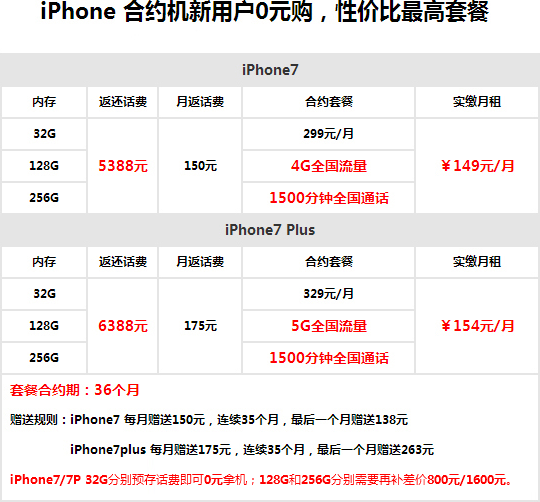
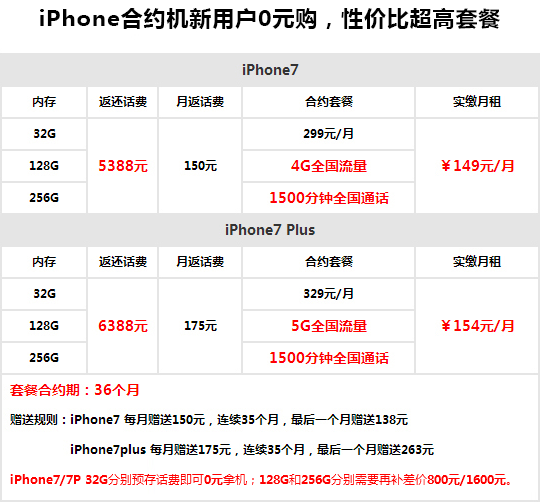
胡杨页面文案修改

Changed region(s): [[0.0593, 0.0, 0.9481, 0.0598]]

diff --git a/public/html/pages/phone/phone-details/hu/phone-details.html b/public/html/pages/phone/phone-details/hu/phone-details.html
@@ -13,7 +13,7 @@
         <div class="content-scrollable has-footer">
             <div class="owl-carousel" img-urls="['/spc/hu/images/yfq_01.jpg','/spc/hu/images/banner03.jpg','/spc/hu/images/banner02.jpg']" options="{loop: true,margin: 0,autoPlay: 3000,items: 1}"></div>
             <div class="product-header">
-                <h1 class="product-title">[翼分期]iPhone合约机新用户0元购，性价比最高套餐！</h1>
+                <h1 class="product-title">[翼分期]iPhone合约机新用户0元购，性价比超高套餐！</h1>
                 <h2 class="product-sub-title">全国通用无漫游 号码归属地广州</h2>
             </div>
 
